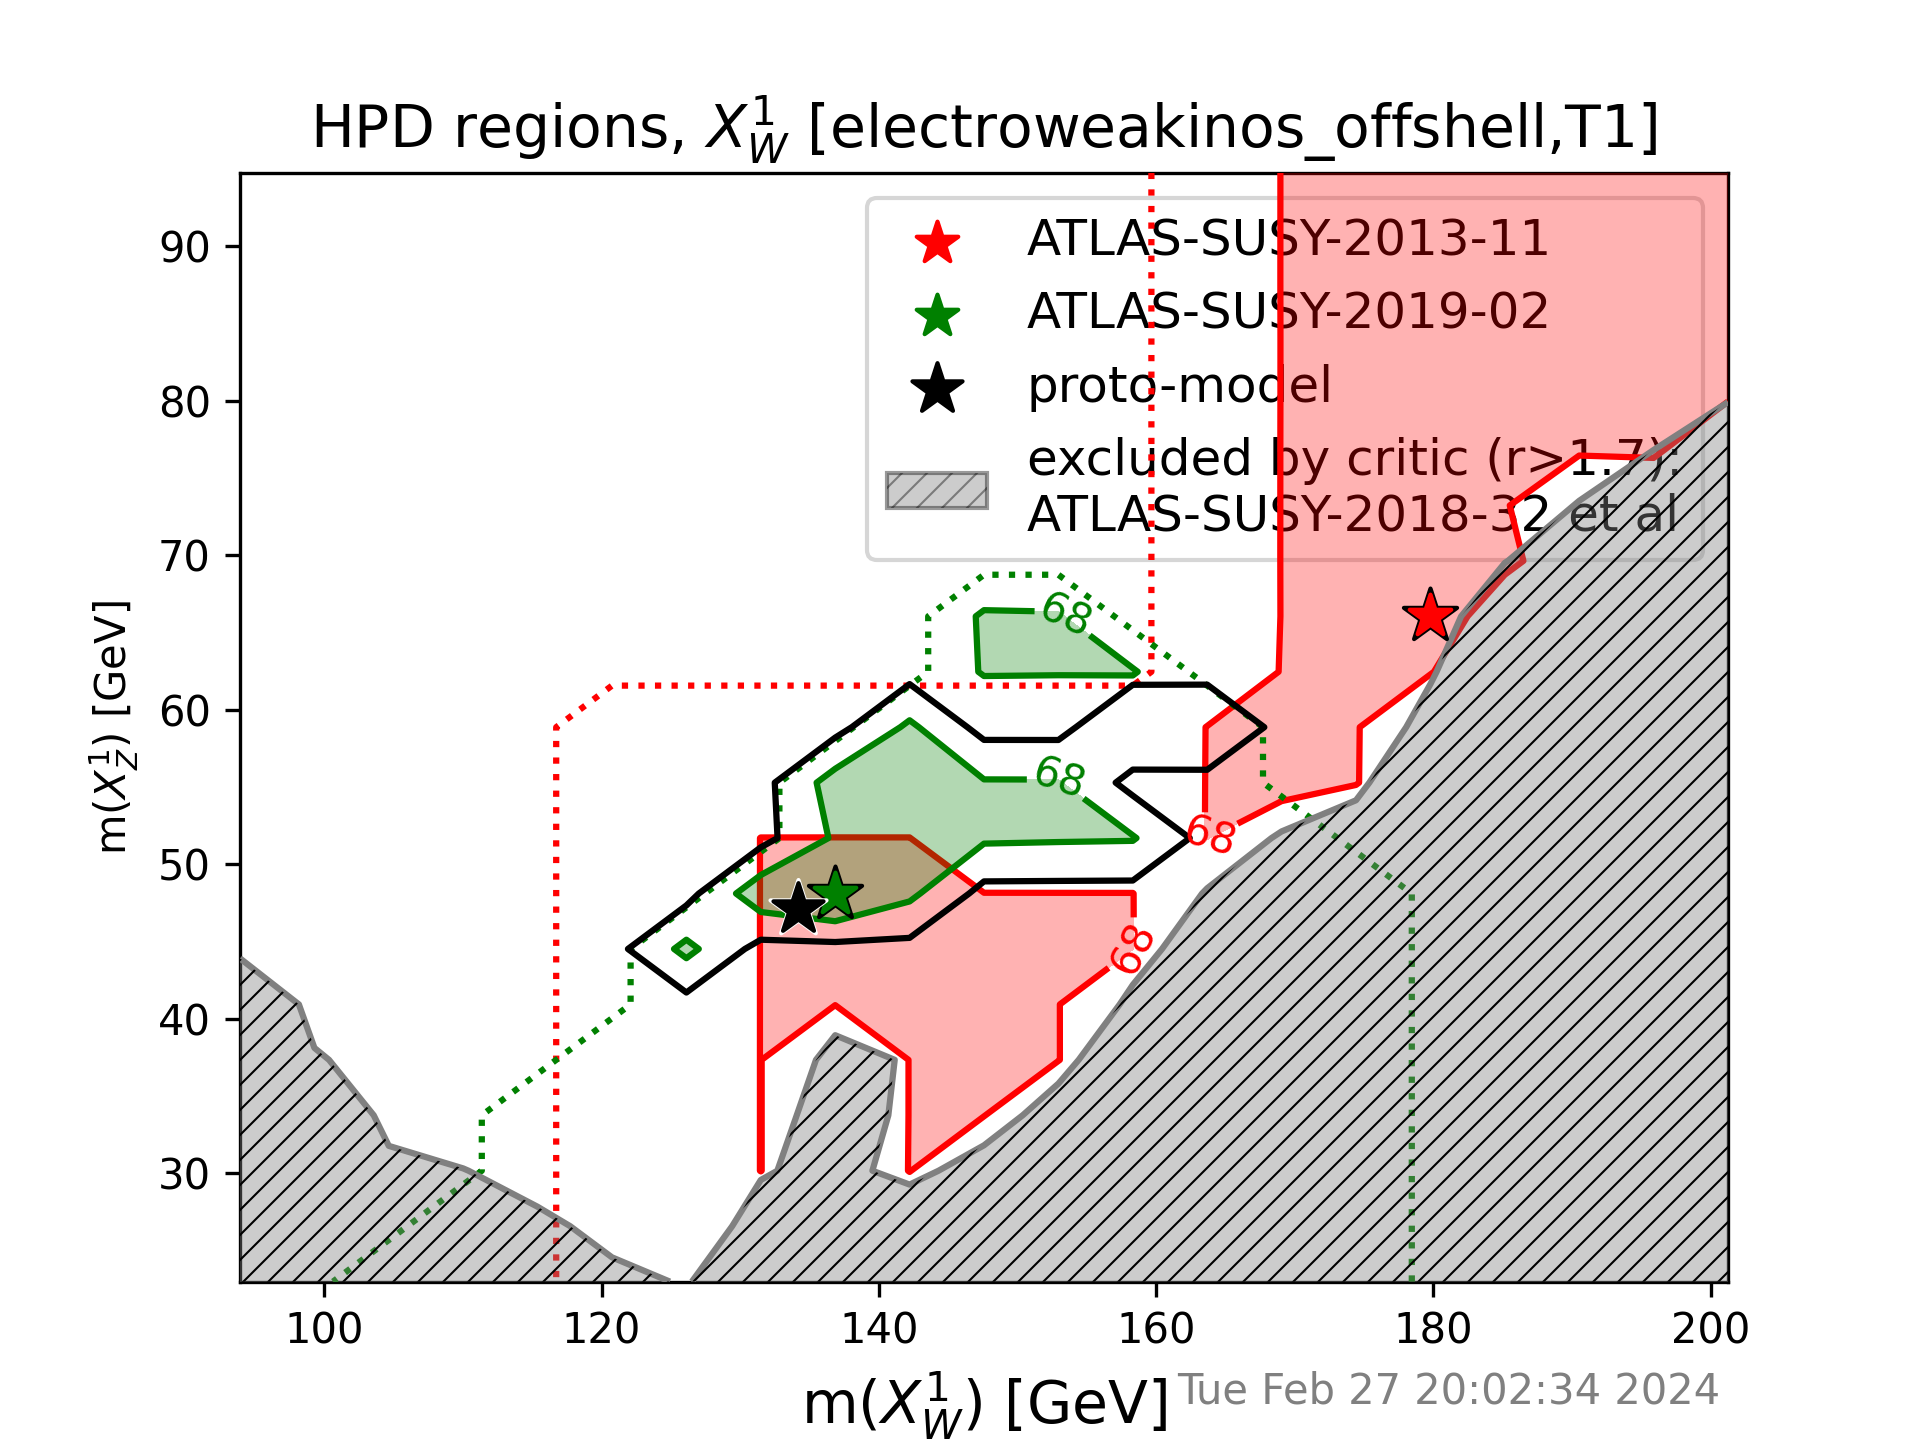
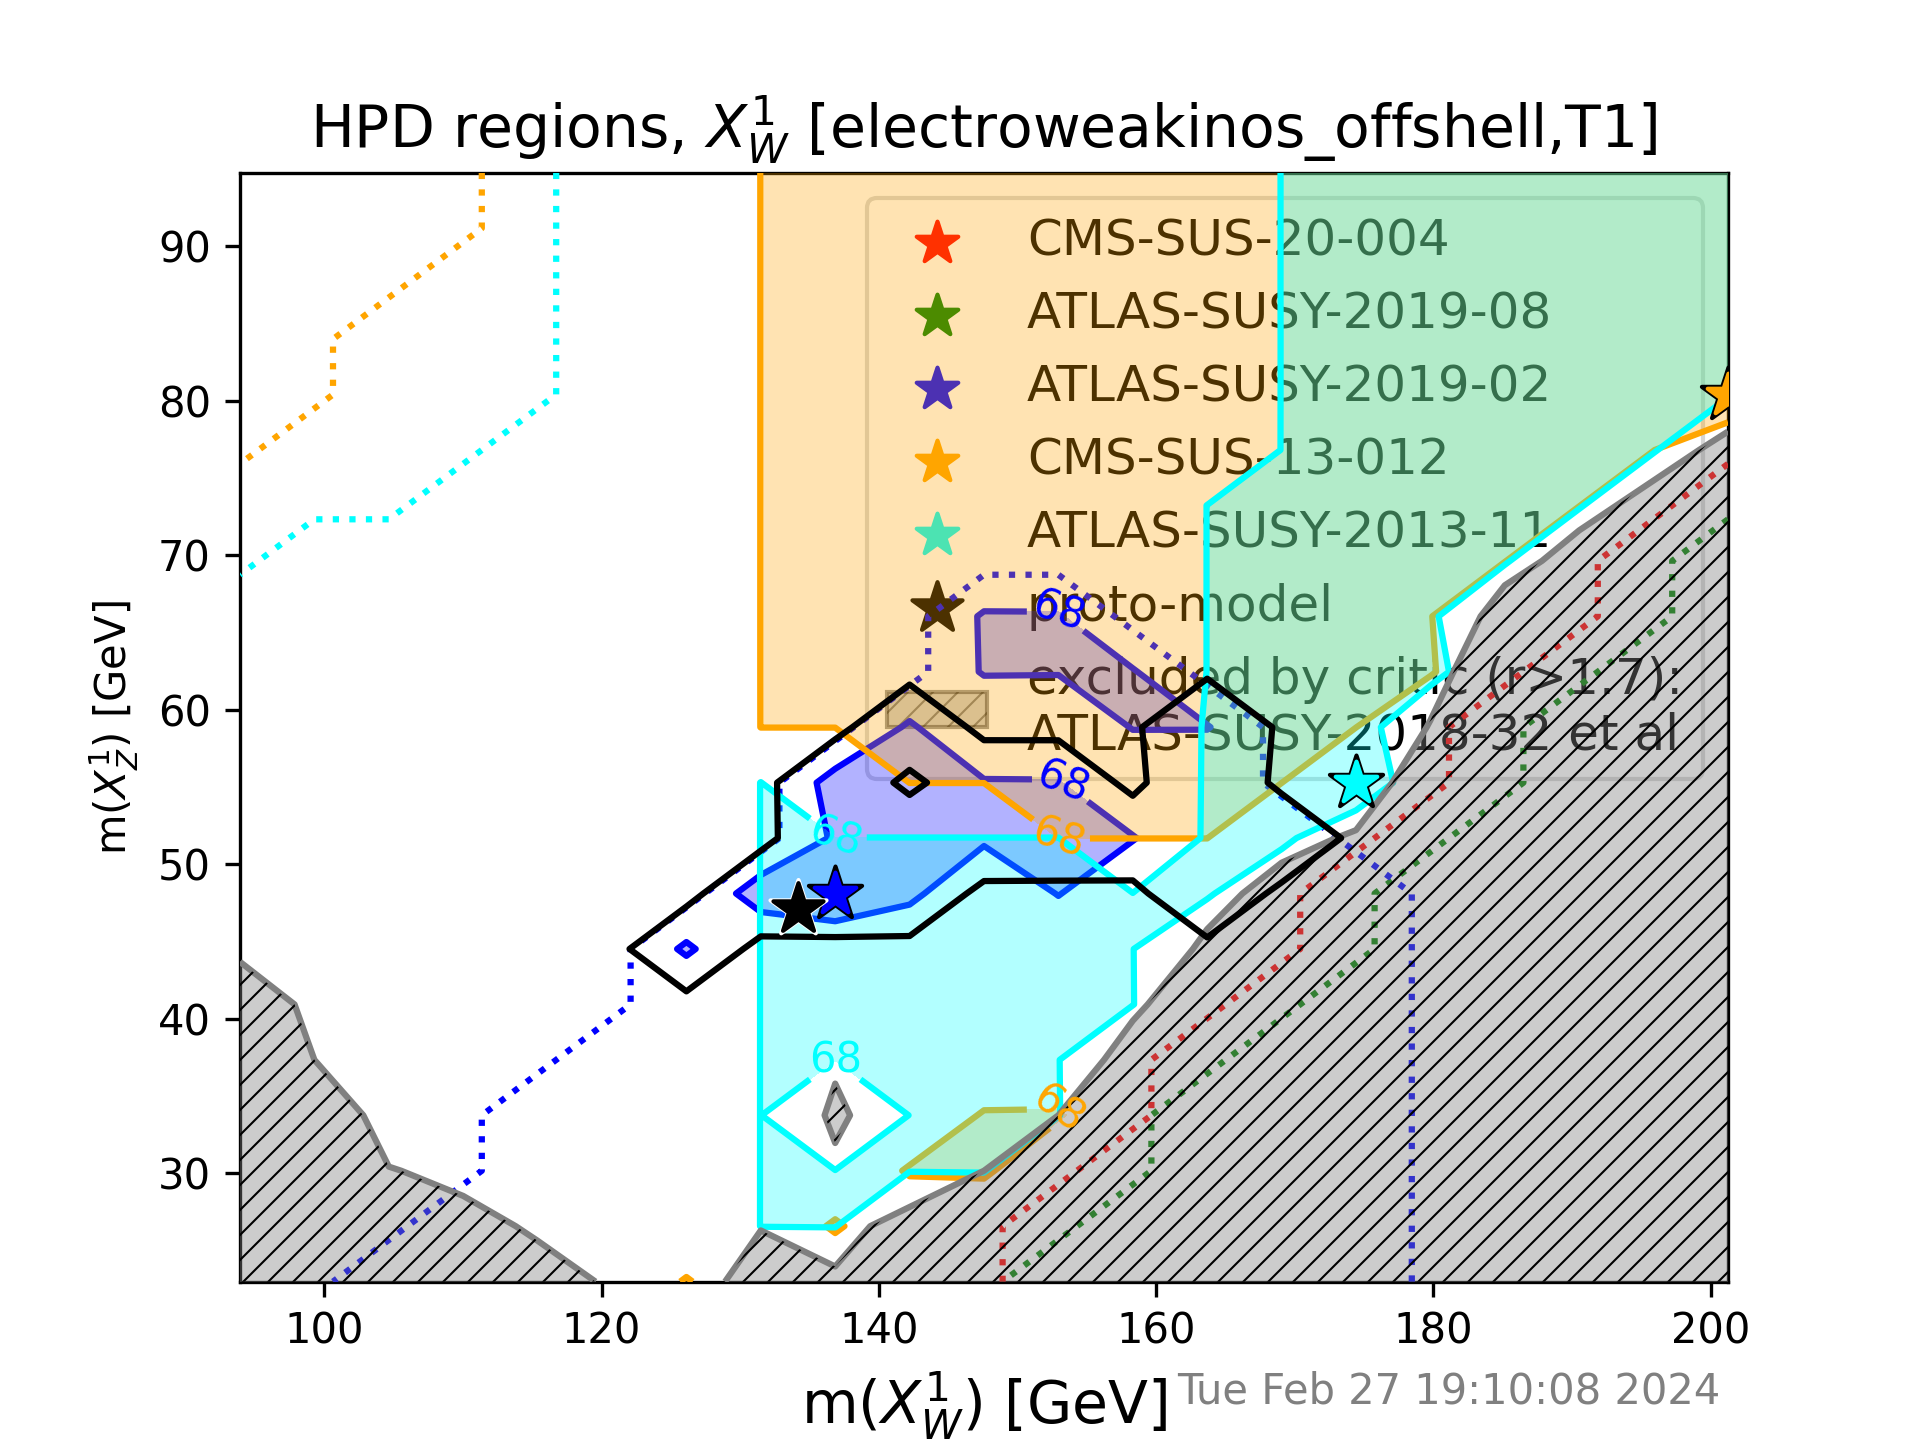
sync

diff --git a/protomodels/230/rawnumbers.html b/protomodels/230/rawnumbers.html
@@ -1,12 +1,12 @@
 <table>
 <tr><th>Analysis Name</th><th>Type</th><th>Dataset</th><th>Topos</th><th>Observed</th><th>Expected</th><th>Approx &sigma;</th><th>Particles</th>
 </tr>
-<tr><td><a href=https://atlas.web.cern.ch/Atlas/GROUPS/PHYSICS/PAPERS/SUSY-2013-15/>ATLAS-SUSY-2013-15</a></td><td>em</td> <td>tNboost</td><td>T2tt</td><td>5</td><td>3.3 +/- 0.7</td><td style="text-align:right">0.9 &sigma;</td><td style="text-align:right">X<sub>t</sub></td></tr>
-<tr><td><a href=https://atlas.web.cern.ch/Atlas/GROUPS/PHYSICS/PAPERS/SUSY-2013-16/>ATLAS-SUSY-2013-16</a></td><td>em</td> <td>SRA4</td><td>T2tt</td><td>4</td><td>2.4 +/- 0.7</td><td style="text-align:right">0.9 &sigma;</td><td style="text-align:right">X<sub>t</sub></td></tr>
-<tr><td><a href=https://atlas.web.cern.ch/Atlas/GROUPS/PHYSICS/PAPERS/SUSY-2016-16/>ATLAS-SUSY-2016-16</a></td><td>em</td> <td>tN_med</td><td>T2tt</td><td>50</td><td>36.3 +/- 6.6</td><td style="text-align:right">1.5 &sigma;</td><td style="text-align:right">X<sub>t</sub></td></tr>
-<tr><td><a href=https://atlas.web.cern.ch/Atlas/GROUPS/PHYSICS/PAPERS/SUSY-2018-08/>ATLAS-SUSY-2018-08</a></td><td>em</td> <td>SRSF140</td><td>T2tt</td><td>9</td><td>5.1 +/- 0.9</td><td style="text-align:right">1.6 &sigma;</td><td style="text-align:right">X<sub>t</sub></td></tr>
-<tr><td><a href=https://atlas.web.cern.ch/Atlas/GROUPS/PHYSICS/PAPERS/SUSY-2018-12/>ATLAS-SUSY-2018-12</a></td><td>em</td> <td>SRBTT</td><td>T2tt</td><td>67</td><td>46 +/- 7</td><td style="text-align:right">2.2 &sigma;</td><td style="text-align:right">X<sub>t</sub></td></tr>
-<tr><td><a href=https://twiki.cern.ch/twiki/bin/view/CMSPublic/PhysicsResultsSUS13015>CMS-PAS-SUS-13-015</a></td><td>em</td> <td>pTmiss350_Nb2</td><td>T2tt</td><td>15</td><td>8.6 +/- 7.1</td><td style="text-align:right">0.8 &sigma;</td><td style="text-align:right">X<sub>t</sub></td></tr>
-<tr><td><a href=https://twiki.cern.ch/twiki/bin/view/CMSPublic/PhysicsResultsSUS13011>CMS-SUS-13-011</a></td><td>em</td> <td>LM150</td><td>T2tt</td><td>227</td><td>251 +/- 50</td><td style="text-align:right">-0.5 &sigma;</td><td style="text-align:right">X<sub>t</sub></td></tr>
+<tr><td><a href=https://atlas.web.cern.ch/Atlas/GROUPS/PHYSICS/PAPERS/SUSY-2013-15/>ATLAS-SUSY-2013-15</a></td><td>em</td> <td>tNboost</td><td>T2tt</td><td>5</td><td>3.30 +/- 0.70</td><td style="text-align:right">0.9 &sigma;</td><td style="text-align:right">X<sub>t</sub></td></tr>
+<tr><td><a href=https://atlas.web.cern.ch/Atlas/GROUPS/PHYSICS/PAPERS/SUSY-2013-16/>ATLAS-SUSY-2013-16</a></td><td>em</td> <td>SRA4</td><td>T2tt</td><td>4</td><td>2.40 +/- 0.70</td><td style="text-align:right">0.9 &sigma;</td><td style="text-align:right">X<sub>t</sub></td></tr>
+<tr><td><a href=https://atlas.web.cern.ch/Atlas/GROUPS/PHYSICS/PAPERS/SUSY-2016-16/>ATLAS-SUSY-2016-16</a></td><td>em</td> <td>tN_med</td><td>T2tt</td><td>50</td><td>36.30 +/- 6.60</td><td style="text-align:right">1.5 &sigma;</td><td style="text-align:right">X<sub>t</sub></td></tr>
+<tr><td><a href=https://atlas.web.cern.ch/Atlas/GROUPS/PHYSICS/PAPERS/SUSY-2018-08/>ATLAS-SUSY-2018-08</a></td><td>em</td> <td>SRSF140</td><td>T2tt</td><td>9</td><td>5.10 +/- 0.90</td><td style="text-align:right">1.6 &sigma;</td><td style="text-align:right">X<sub>t</sub></td></tr>
+<tr><td><a href=https://atlas.web.cern.ch/Atlas/GROUPS/PHYSICS/PAPERS/SUSY-2018-12/>ATLAS-SUSY-2018-12</a></td><td>em</td> <td>SRBTT</td><td>T2tt</td><td>67</td><td>46.00 +/- 7.00</td><td style="text-align:right">2.2 &sigma;</td><td style="text-align:right">X<sub>t</sub></td></tr>
+<tr><td><a href=https://twiki.cern.ch/twiki/bin/view/CMSPublic/PhysicsResultsSUS13015>CMS-PAS-SUS-13-015</a></td><td>em</td> <td>pTmiss350_Nb2</td><td>T2tt</td><td>15</td><td>8.60 +/- 7.10</td><td style="text-align:right">0.8 &sigma;</td><td style="text-align:right">X<sub>t</sub></td></tr>
+<tr><td><a href=https://twiki.cern.ch/twiki/bin/view/CMSPublic/PhysicsResultsSUS13011>CMS-SUS-13-011</a></td><td>em</td> <td>LM150</td><td>T2tt</td><td>227</td><td>251.00 +/- 50.00</td><td style="text-align:right">-0.5 &sigma;</td><td style="text-align:right">X<sub>t</sub></td></tr>
 <tr><td><a href=http://cms-results.web.cern.ch/cms-results/public-results/publications/SUS-20-004/>CMS-SUS-20-004</a></td><td>comb</td> <td>-</td><td>TChiHH</td><td> 0.2 fb </td><td> 0.1 fb</td><td style="text-align:right">2.2 &sigma;</td><td style="text-align:right">X<sup>2</sup><sub>Z</sub></td></tr>
 </table>

diff --git a/protomodels/230/index.html b/protomodels/230/index.html
@@ -3,7 +3,8 @@
 <center>
 <table><td><h1>Current best protomodel: <i>K</i>=9.26, <i>Z</i>=3.58</h1><td><img height=60px src=https://smodels.github.io//protomodels/logos/protomodel_lego.png></table>
 </center>
-<b><a href=./hiscore.slha>ProtoModel</a> <a href=./pmodel.dict>(dict)</a> produced with <a href=https://smodels.github.io//docs/Validation230>database v2.3.0</a>, combination strategy <a href=./matrix.png>aggressive</a> in walker 0 step 0.</b>  SSM plots for: <a href=./ssm_-1000006_1000006.png?116063042>(-1000006,1000006)</a><br>
+<b><a href=./hiscore.slha>ProtoModel</a> <a href=./pmodel.dict>(dict)</a> produced with <a href=https://smodels.github.io//docs/Validation230>database v2.3.0</a>, combination strategy <a href=./matrix.png>aggressive</a> in walker 698 step 173.</b> llhd plots: <a href=llhdX2Z.png?526>llhdX2Z.png</a> <a href=llhdX1W.png?526>llhdX1W.png</a>
+<br>
 <table width=80%>
 <tr><td>
 <br><b>38 predictions available. Highest r values are:</b><br><ul>
@@ -13,11 +14,11 @@
 <li><a href=http://cms-results.web.cern.ch/cms-results/public-results/publications/SUS-19-006/index.html>CMS-SUS-19-006-agg</a>:comb:T2tt r=0.71, r<sub>exp</sub>=0.43<br>
 <li><a href=http://cms-results.web.cern.ch/cms-results/public-results/publications/SUS-19-006/index.html>CMS-SUS-19-006</a>:ul:T2tt r=0.64, r<sub>exp</sub>=0.46<br>
 </ul>
-<td><img width=600px src=./texdoc.png?1709063042>
-<br><font size=-1>Last updated: Tue Feb 27 20:44:02 2024</font>
+<td><img width=600px src=./texdoc.png?1709120526>
+<br><font size=-1>Last updated: Wed Feb 28 12:42:06 2024</font>
 </table><table style="width:80%">
-<td width=45%><img height=580px src=./ruler.png?1709063042><td width=55%><img height=340px src=./decays.png?1709063042>
-<font size=-3><iframe type="text/html" height="270px" width="100%s" frameborder="0" src="./rawnumbers.html?1709063042"></iframe></font>
+<td width=45%><img height=580px src=./ruler.png?1709120526><td width=55%><img height=340px src=./decays.png?1709120526>
+<font size=-3><iframe type="text/html" height="270px" width="100%s" frameborder="0" src="./rawnumbers.html?1709120526"></iframe></font>
 </table>
 </body>
 </html>
